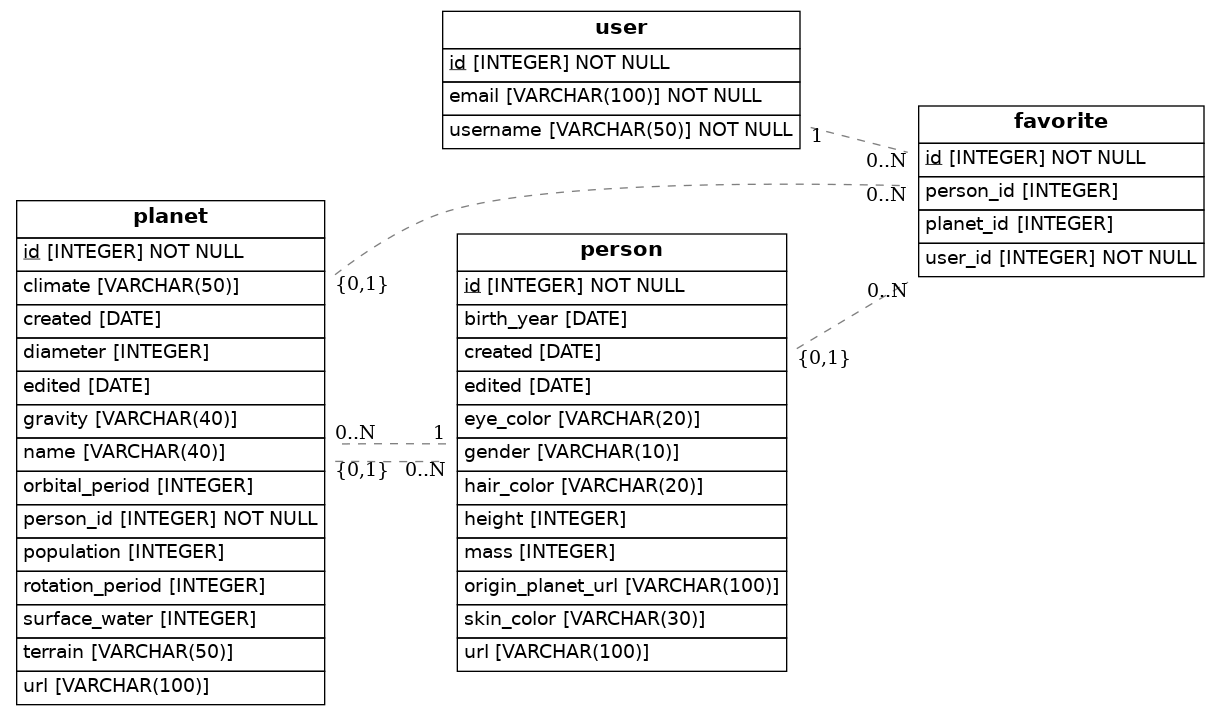
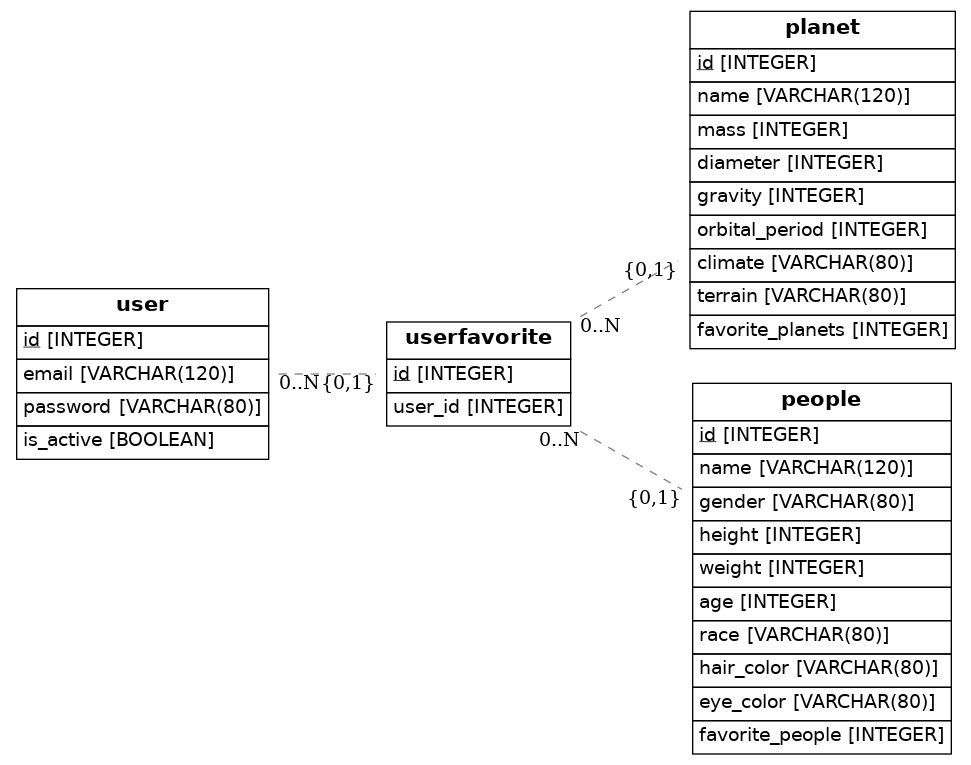
right relatioship used

diff --git a/src/models.py b/src/models.py
@@ -1,76 +1,97 @@
 import os
 import sys
-from sqlalchemy import Column, ForeignKey, Integer, String, Date
-from sqlalchemy.orm import relationship, declarative_base
-from sqlalchemy import create_engine
-from eralchemy2 import render_er
+from sqlalchemy import Column, ForeignKey, Integer, String, Date, Boolean
+from sqlalchemy.orm import relationship
+from sqlalchemy.ext.declarative import declarative_base  # Use declarative_base from ext module
+from eralchemy import render_er
 
 Base = declarative_base()
 
 class User(Base):
     __tablename__ = 'user'
-    # Here we define columns for the table person
-    # Notice that each column is also a normal Python instance attribute.
     id = Column(Integer, primary_key=True)
-    username = Column(String(50), unique=True, nullable=False)
-    email = Column(String(100), unique=True, nullable=False)
+    email = Column(String(120), unique=True, nullable=False)
+    password = Column(String(80), unique=False, nullable=False)
+    is_active = Column(Boolean, unique=False, nullable=True, default=True)
+    # planets_id = relationship('Planet', lazy=True)
+    # people_id = relationship('People', lazy=True)
+    def __repr__(self):
+        return '<User %r>' % self.email
+    def serialize(self):
+        return {
+            "id": self.id,
+            "email": self.email,
+            # do not serialize the password, its a security breach
+        }
 
-    def to_dict(self):
-        return {}
+class UserFavorites(Base):
+    __tablename__ = 'userfavorite'
+    id = Column(Integer, primary_key=True)
+    user_id = Column(Integer, ForeignKey(User.id))
+    planets_id = relationship('Planet', lazy=True)
+    people_id = relationship('People', lazy=True)
+    def __repr__(self):
+        return '<UserFavorites %r>' % self.id
+    def serialize(self):
+        return {
+            "id": self.id,
+            "user_id": self.user_id,
+            "planets": [planet.serialize() for planet in self.planets_id],
+            "people": [person.serialize() for person in self.people_id],
+            # do not serialize the password, its a security breach
+        }
 
 class Planet(Base):
     __tablename__ = 'planet'
-    # Here we define columns for the table address.
-    # Notice that each column is also a normal Python instance attribute.
     id = Column(Integer, primary_key=True)
-    person_id = Column(Integer, ForeignKey('person.id'), nullable=False)
-    name = Column(String(40))
-    population = Column(Integer)
-    gravity = Column(String(40))
-    climate = Column(String(50))
-    terrain = Column(String(50))
-    surface_water = Column(Integer)
-    diameter = Column(Integer)
-    orbital_period = Column(Integer)
-    rotation_period = Column(Integer)
-    edited = Column(Date)
-    created = Column(Date)
-    url = Column(String(100), unique = True)
+    name = Column(String(120), unique=True, nullable=False)
+    mass = Column(Integer, unique=False, nullable=True)
+    diameter = Column(Integer, unique=False, nullable=True)
+    gravity = Column(Integer, unique=False, nullable=True)
+    orbital_period = Column(Integer, unique=False, nullable=True)
+    climate = Column(String(80), unique=False, nullable=True)
+    terrain = Column(String(80), unique=False, nullable=True)
+    favorite_planets = Column(Integer, ForeignKey(UserFavorites.id))
+    def __repr__(self):
+        return '<Planet %r>' % self.name
+    def serialize(self):
+        return {
+            "id": self.id,
+            "name": self.name,
+            "mass": self.mass,
+            "diameter": self.diameter,
+            "gravity": self.gravity,
+            "orbital_period": self.orbital_period,
+            "climate": self.climate,
+            "terrain": self.terrain,
+        }
 
-    def to_dict(self):
-        return {}
-
-class Person(Base):
-    __tablename__ = 'person'
-    # Here we define columns for the table address.
-    # Notice that each column is also a normal Python instance attribute.
+class People(Base):
+    __tablename__ = 'people'
     id = Column(Integer, primary_key=True)
-    birth_year = Column(Date)
-    eye_color = Column(String(20))
-    gender = Column(String(10))
-    hair_color = Column(String(20))
-    height = Column(Integer)
-    mass = Column(Integer)
-    skin_color = Column(String(30))
-    edited = Column(Date)
-    created = Column(Date)
-    origin_planet_url = Column(String(100), ForeignKey('planet.url'))
-    url = Column(String(100), unique = True)
-
-    def to_dict(self):
-        return {}
-    
-class Favorite(Base):
-    __tablename__ = 'favorite'
-    # Here we define columns for the table person
-    # Notice that each column is also a normal Python instance attribute.
-    id = Column(Integer, primary_key=True)
-    user_id = Column(Integer, ForeignKey('user.id'), nullable=False)
-    planet_id = Column(Integer, ForeignKey('planet.id'))
-    person_id = Column(Integer, ForeignKey('person.id'))
-
-    def to_dict(self):
-        return {}
+    name = Column(String(120), unique=True, nullable=False)
+    gender = Column(String(80), unique=False, nullable=True)
+    height = Column(Integer, unique=False, nullable=True)
+    weight = Column(Integer, unique=False, nullable=True)
+    age = Column(Integer, unique=False, nullable=True)
+    race = Column(String(80), unique=False, nullable=True)
+    hair_color = Column(String(80), unique=False, nullable=True)
+    eye_color = Column(String(80), unique=False, nullable=True)
+    favorite_people = Column(Integer, ForeignKey(UserFavorites.id))
+    def __repr__(self):
+        return '<People %r>' % self.name
+    def serialize(self):
+        return {
+            "id": self.id,
+            "name": self.name,
+            "gender": self.gender,
+            "height": self.height,
+            "weight": self.weight,
+            "age": self.age,
+            "race": self.race,
+            "hair_color": self.hair_color,
+            "eye_color": self.eye_color,
+        }
 
 ## Draw from SQLAlchemy base
 render_er(Base, 'diagram.png')
